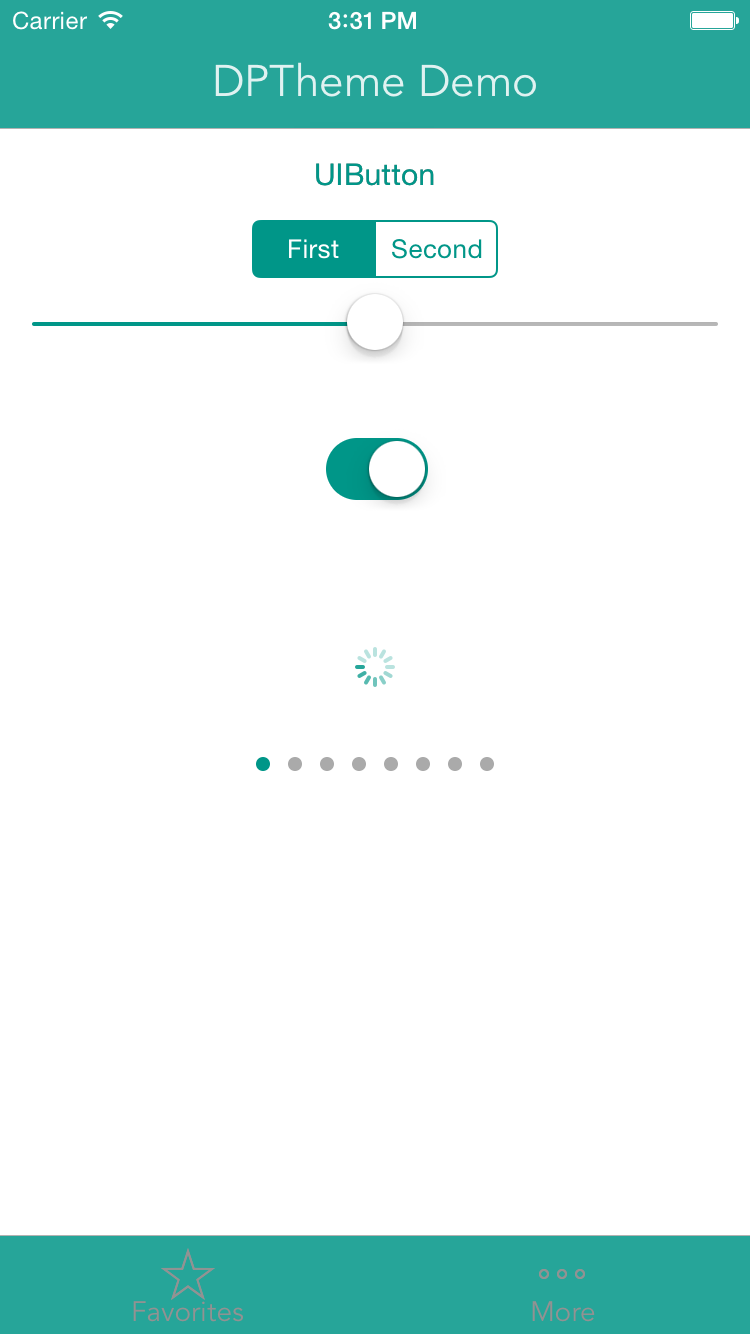
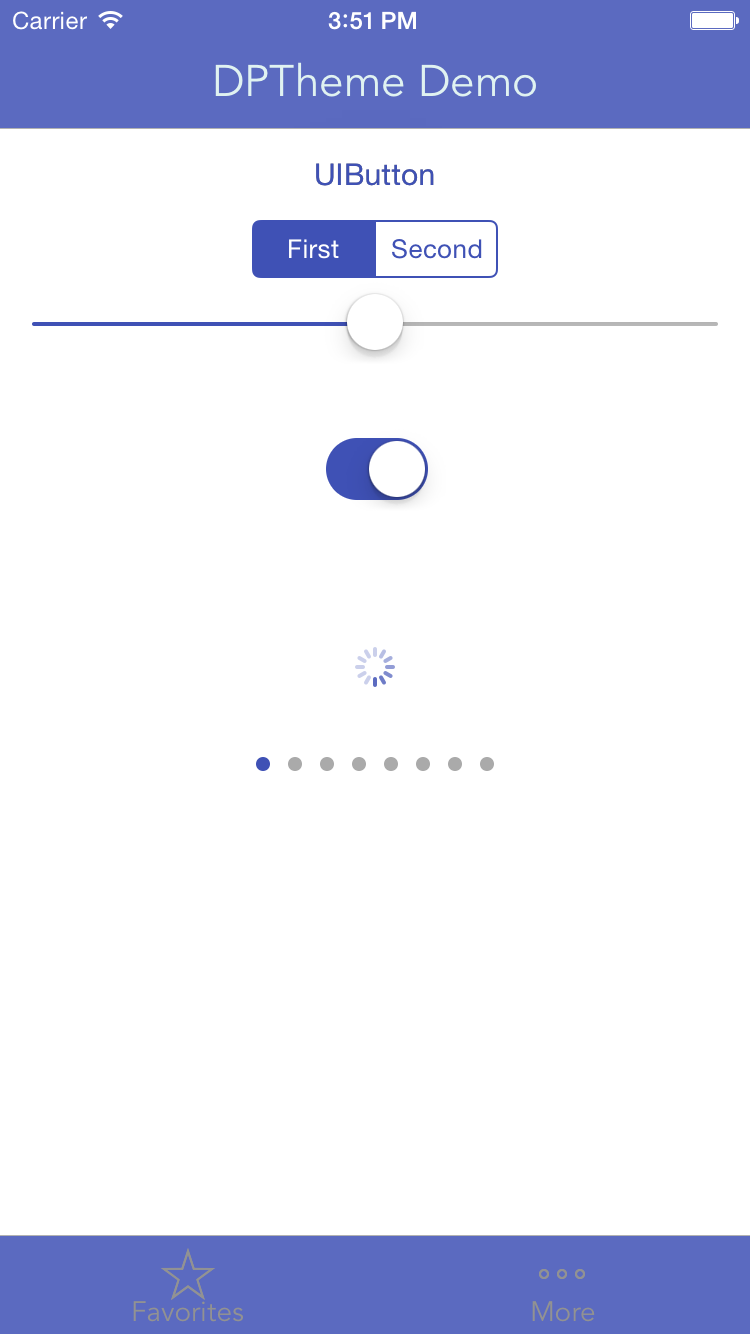
Released

diff --git a/DemoDPTheme/AppDelegate.swift b/DemoDPTheme/AppDelegate.swift
@@ -15,7 +15,7 @@ class AppDelegate: UIResponder, UIApplicationDelegate {
 
     func applyTheme() {
         
-        var mainColor: UIColor = DPTheme.color(0x009688, alpha: 1.0)
+        var mainColor: UIColor = DPTheme.color(0x3F51B5, alpha: 1.0)
         var secondColor: UIColor = DPTheme.color(0xE0F2F1, alpha: 1.0)
         let fontName = "Avenir"
         
